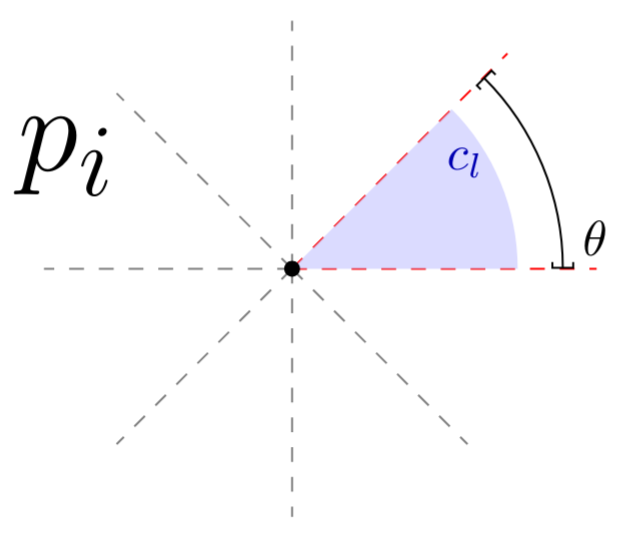
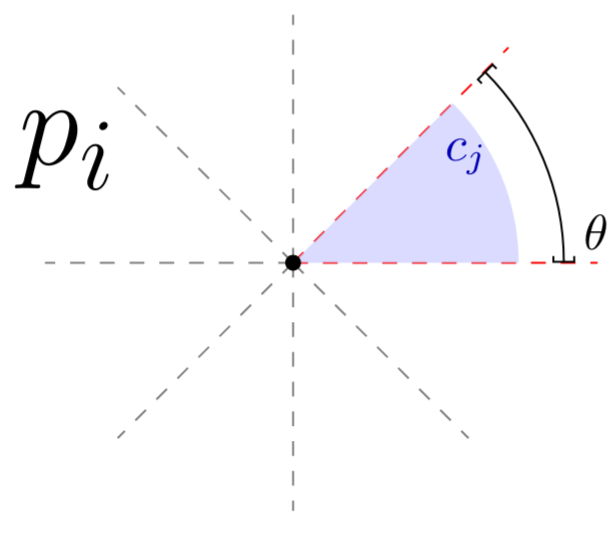
MSC theorem proof.

diff --git a/3-msc.tex b/3-msc.tex
@@ -17,7 +17,7 @@
 \begin{frame}{Motivação}
   \begin{itemize}[<+->]
 
-    \item É possível usar transmissão direcional e recepção omnidirecional;
+    \item É possível usar tanto transmissão direcional quanto recepção omnidirecional;
 
     \item Mas exige duas antenas, aumentando custo e complexidade.
 
@@ -43,7 +43,7 @@
     \only<2>{\includegraphics[height=4cm]{MSC/solution/Sol-1.png}}%
     \only<3>{\includegraphics[height=4cm]{MSC/solution/Sol-2.png}}%
     \only<4>{\includegraphics[height=4cm]{MSC/solution/Sol-3.png}\bigbreak}
-    \only<4>{$\cals(a)=\cals(b)=0$, $\cals(c)=\cals(d)=\frac{\pi}{4}$ e $\cals(e)=\frac{\pi}{2}$.}
+    \only<4>{$\cals(a)=\cals(b)=0$, $\cals(c)=\cals(d)=\frac{\pi}{4}$ e $\cals(e)=\frac{\pi}{2}$}
   \end{minipage}
 \end{frame}
 
@@ -127,7 +127,7 @@
 
 \begin{frame}{Rascunho da Prova}
     \begin{itemize}[<+->]
-        \item Seja $I = (P, G)$ uma instância com ângulo mínimo $\lambda$;
+        \item Seja $\cali = (P, G)$ uma instância com ângulo mínimo $\lambda$;
 
         \item Recebemos uma decomposição em árvore de $G$ com largura $k$;
 
@@ -151,11 +151,11 @@
 
     \bigskip
     \centering
-    $\theta := \frac{\pi}{2M} < \lambda$ e os setores são $c_j$ para $j = 0, \dots, 4M-1$.
+    $\theta := \frac{\pi}{2M} < \lambda$ e os setores são $c_j$ para $j \in [4M-1]$
 \end{frame}
 
 \begin{frame}{}
-    Relaxação ${\hat I:=I}$ do problema dependendo de $\theta$:
+    Consideramos uma relaxação ${\hat \cali:= \cali}$ dependendo de $\theta$:
     
     \bigskip
     \pause
@@ -163,6 +163,76 @@
         \centering
         \includegraphics[height=5cm]{MSC/discrete.png}
     \end{minipage}
+\end{frame}
+
+\begin{frame}{}
+    \begin{obs}
+        Cada solução ótima $\hat\cals$ de custo $\theta N$ corresponde a uma função \mbox{$\hat h\colon P \to [4M-1]^{N+1}$}.
+    \end{obs}
+\end{frame}
+
+\begin{frame}{}
+    \begin{obs}
+        \label{obs:msc2d}
+        Seja $t^*$ o ótimo de $\cali$. Então, $t^* \leq 3\pi\ceil{\log_2(k+1)}$
+    \end{obs}
+\end{frame}
+
+\begin{frame}{}
+    \centering
+    Pela \ref{obs:msc2d}ª Observação, existe uma solução de $\hat \cali$ com custo $\theta N$, onde:
+    $N \leq 6\floor{\nicefrac{\pi}{\lambda}} \ceil{\log_2(k+1)}$
+\end{frame}
+
+\begin{frame}{}
+    \centering
+    Particionamos o intervalo de tempo $[0,\ \theta (N+1))$:
+
+    \pause
+    \vspace*{2cm}
+    \begin{minipage}{\linewidth}
+        \centering
+        \includegraphics[width=10cm]{MSC/interval.png}
+    \end{minipage}
+\end{frame}
+
+\begin{frame}{}
+    \only<1>{\begin{lem}
+        \label{obs:msc2dptas}
+        Existe uma solução de custo no máximo $\floor{\nicefrac{t^*}{\theta}} \theta$ para $\hat \cali$, que mapeia arestas para pontos em $\{i\cdot \theta\ |\ i \in [N]\}$.
+    \end{lem}}
+
+    \centering 
+    \only<2>{Seja $\cals^*$ uma solução ótima para $\cali$.}
+    \only<3>{Se o ângulo entre $\mathbf{e}$ e $\mathbf{f}$ não é zero, então ele é ao menos $\lambda>\theta$:}
+    \only<4>{Caso contrário, o ângulo entre $\mathbf{e}$ e $\mathbf{f}$ é zero:}
+
+    \begin{minipage}{\linewidth}
+        \vspace*{2cm}
+        \centering
+        \only<3>{\includegraphics[width=10cm]{MSC/lemma/lema_1.png}}%
+        \only<4>{\includegraphics[width=10cm]{MSC/lemma/lema_2.png}}%
+    \end{minipage}
+\end{frame}
+
+\begin{frame}{}
+    \centering
+    Construímos uma solução {\color{red} $\hat \cals$} para $\hat \cali$ a partir de {\color{blue} $\cals^*$}:
+
+    \begin{minipage}{\linewidth}
+        \vspace*{2cm}
+        \centering
+        \only<2>{\includegraphics[width=10cm]{MSC/lemma/lema_3.png}}%
+        \only<3>{\includegraphics[width=10cm]{MSC/lemma/lema_4.png}\qed}%
+    \end{minipage}
+\end{frame}
+
+\begin{frame}{}
+    Usando programação dinâmica sobre a decomposição em árvore calculamos uma solução ótima $\hat \cals^*$ para $\hat\cali$ em tempo:
+
+    \bigskip
+    \centering
+    $N^{O(k^2)}\cdot M^{O(Nk)}\cdot k^{O(1)} \cdot n = \lambda^{-O(k^2+\frac{k\log k}{\lambda})}\cdot (\log k)^{O(k^2)}\cdot n$.
 \end{frame}
 
 \begin{frame}{Nosso Resultado}

diff --git a/macros.tex b/macros.tex
@@ -81,6 +81,7 @@
 
 \newcommand{\cala}{\mathcal{A}}
 \newcommand{\calb}{\mathcal{B}}
+\newcommand{\cali}{\mathcal{I}}
 \newcommand{\call}{\mathcal{L}}
 \newcommand{\calo}{\mathcal{O}}
 \newcommand{\cals}{\mathcal{S}}
@@ -104,5 +105,5 @@
 \newtheorem{thm}{Teorema}
 \newtheorem{cor}{Corolário}
 \newtheorem{conj}{Conjectura}
-% \newtheorem{lemma}{Lema}
-% \newtheorem{observation}{Observação}
+\newtheorem{lem}{Lema}
+\newtheorem{obs}{Observação}

diff --git a/2-aftp.tex b/2-aftp.tex
@@ -4,7 +4,7 @@
 
 \stopcounter
 \begin{frame}{Origem}
-  O Angular Freeze-Tag Problem (AFTP) surge como um problema de \emph{broadcast} entre satélites em 2018~\cite{Fe18}:
+  O Angular Freeze-Tag Problem (AFTP) surge como um problema de \textbf{\emph{broadcast}} entre satélites em 2018~\cite{Fe18}:
   \bigbreak
   \begin{minipage}{\linewidth}
     \centering

diff --git a/slides.tex b/slides.tex
@@ -1,5 +1,5 @@
-\documentclass[handout, xcolor=table]{beamer}
-%\documentclass[xcolor=table]{beamer}
+%\documentclass[handout, xcolor=table]{beamer}
+\documentclass[xcolor=table]{beamer}
 
 %-----------------------[ Macros ]----------------------------------------------%
 
